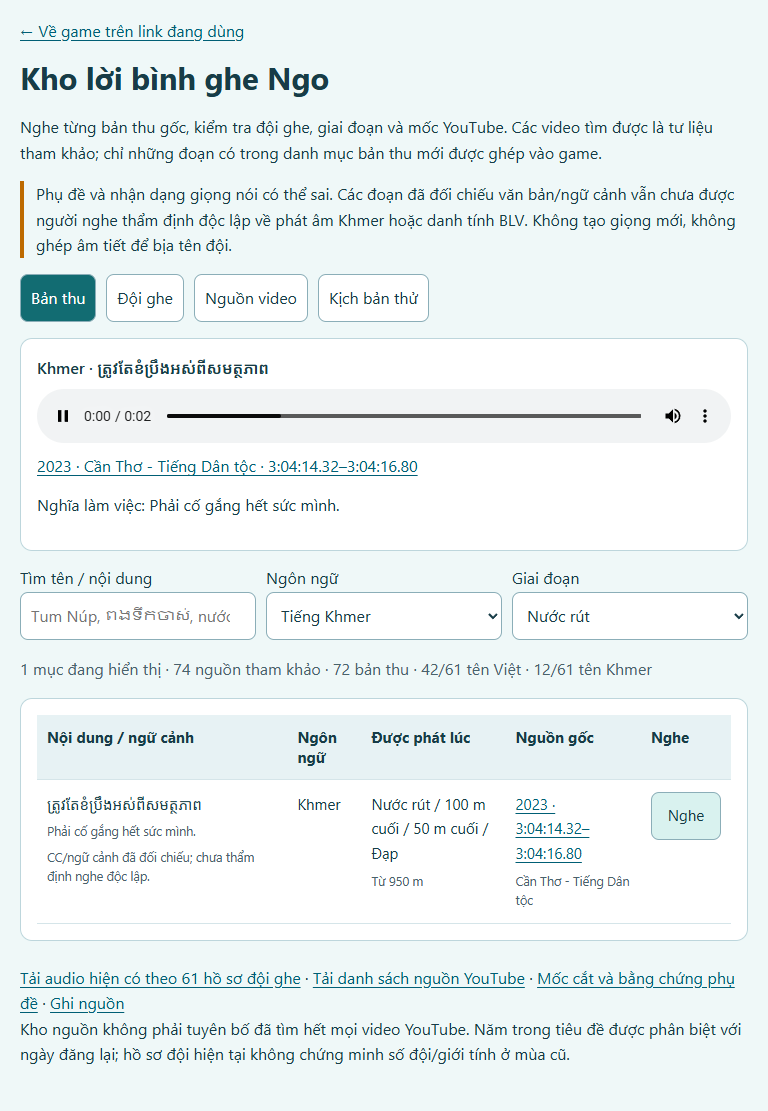
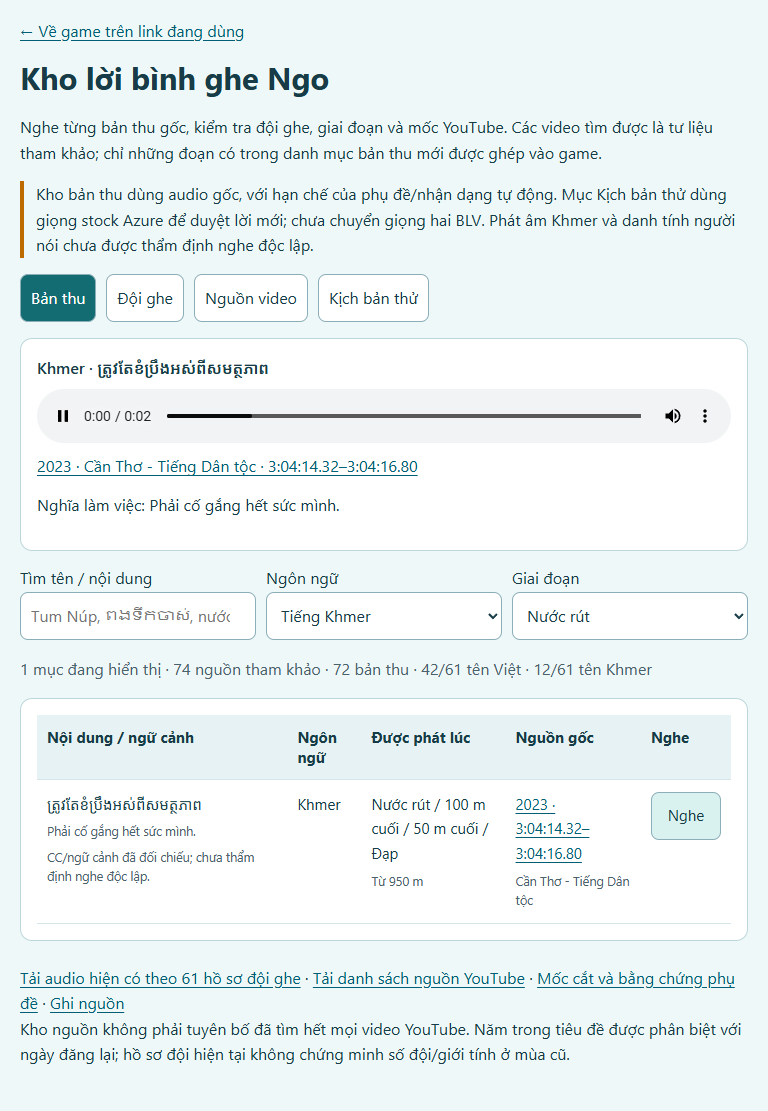
Record public Azure audio verification and key handling guidance

Changed region(s): [[0.0312, 0.153, 0.9688, 0.2448]]

diff --git a/docs/race-audio.md b/docs/race-audio.md
@@ -54,10 +54,28 @@ only the selected file is fetched, with a content hash in its URL. Labels say
 Nam Minh/Piseth stock voices and explicitly keep Khmer/native listening review
 pending. No cloud account details or key is included in the public manifest.
 
+Credential handling: Azure's visible key fields can include the full secret in
+their accessible label after **Show Keys**. Do not dump input labels, page
+snapshots or screenshots in that state. Read only the specifically selected
+field into private local storage and hide the keys again. Never regenerate a
+shared resource's keys as part of testing or publishing this game.
+
 Affected checks: `python scripts/test-commentary-trial.py`,
 `python scripts/build-commentary-trial.py --write-doc`, and the script view
 checks in `scripts/check-broadcast-library.py`. Mocked/offline credential tests
 are not evidence of successful external synthesis.
+
+Published Azure sample set: source `de07597`, Pages
+`9d35b128eabd87e9cdbbeff158a28e2bf7d2744e`, successful
+[Actions run 39156279698](https://github.com/machxanht/Tuk-Ngo/actions/runs/39156279698).
+All 45 public files checked (40 sample MP3s, trial/script/library metadata,
+original broadcast manifest and original team ZIP) matched local SHA-256 hashes.
+The public browser played stock Vietnamese and Khmer samples plus the original
+two-clip regression, passed script filters and three tablet viewports with zero
+page errors. No sample loads before a listen gesture or during filtering.
+`docs/qa/commentary-trial/api.json`, `published.json` and
+`public/library-checks.json` hold the current evidence. Human listening, native
+Khmer review, RVC conversion and physical tablet performance remain unverified.
 
 Previous script-only trial: source `fc3f0dc`, Pages
 `4ce750df7c26de9259feed6efa61b97e6ccd57fb`, successful
